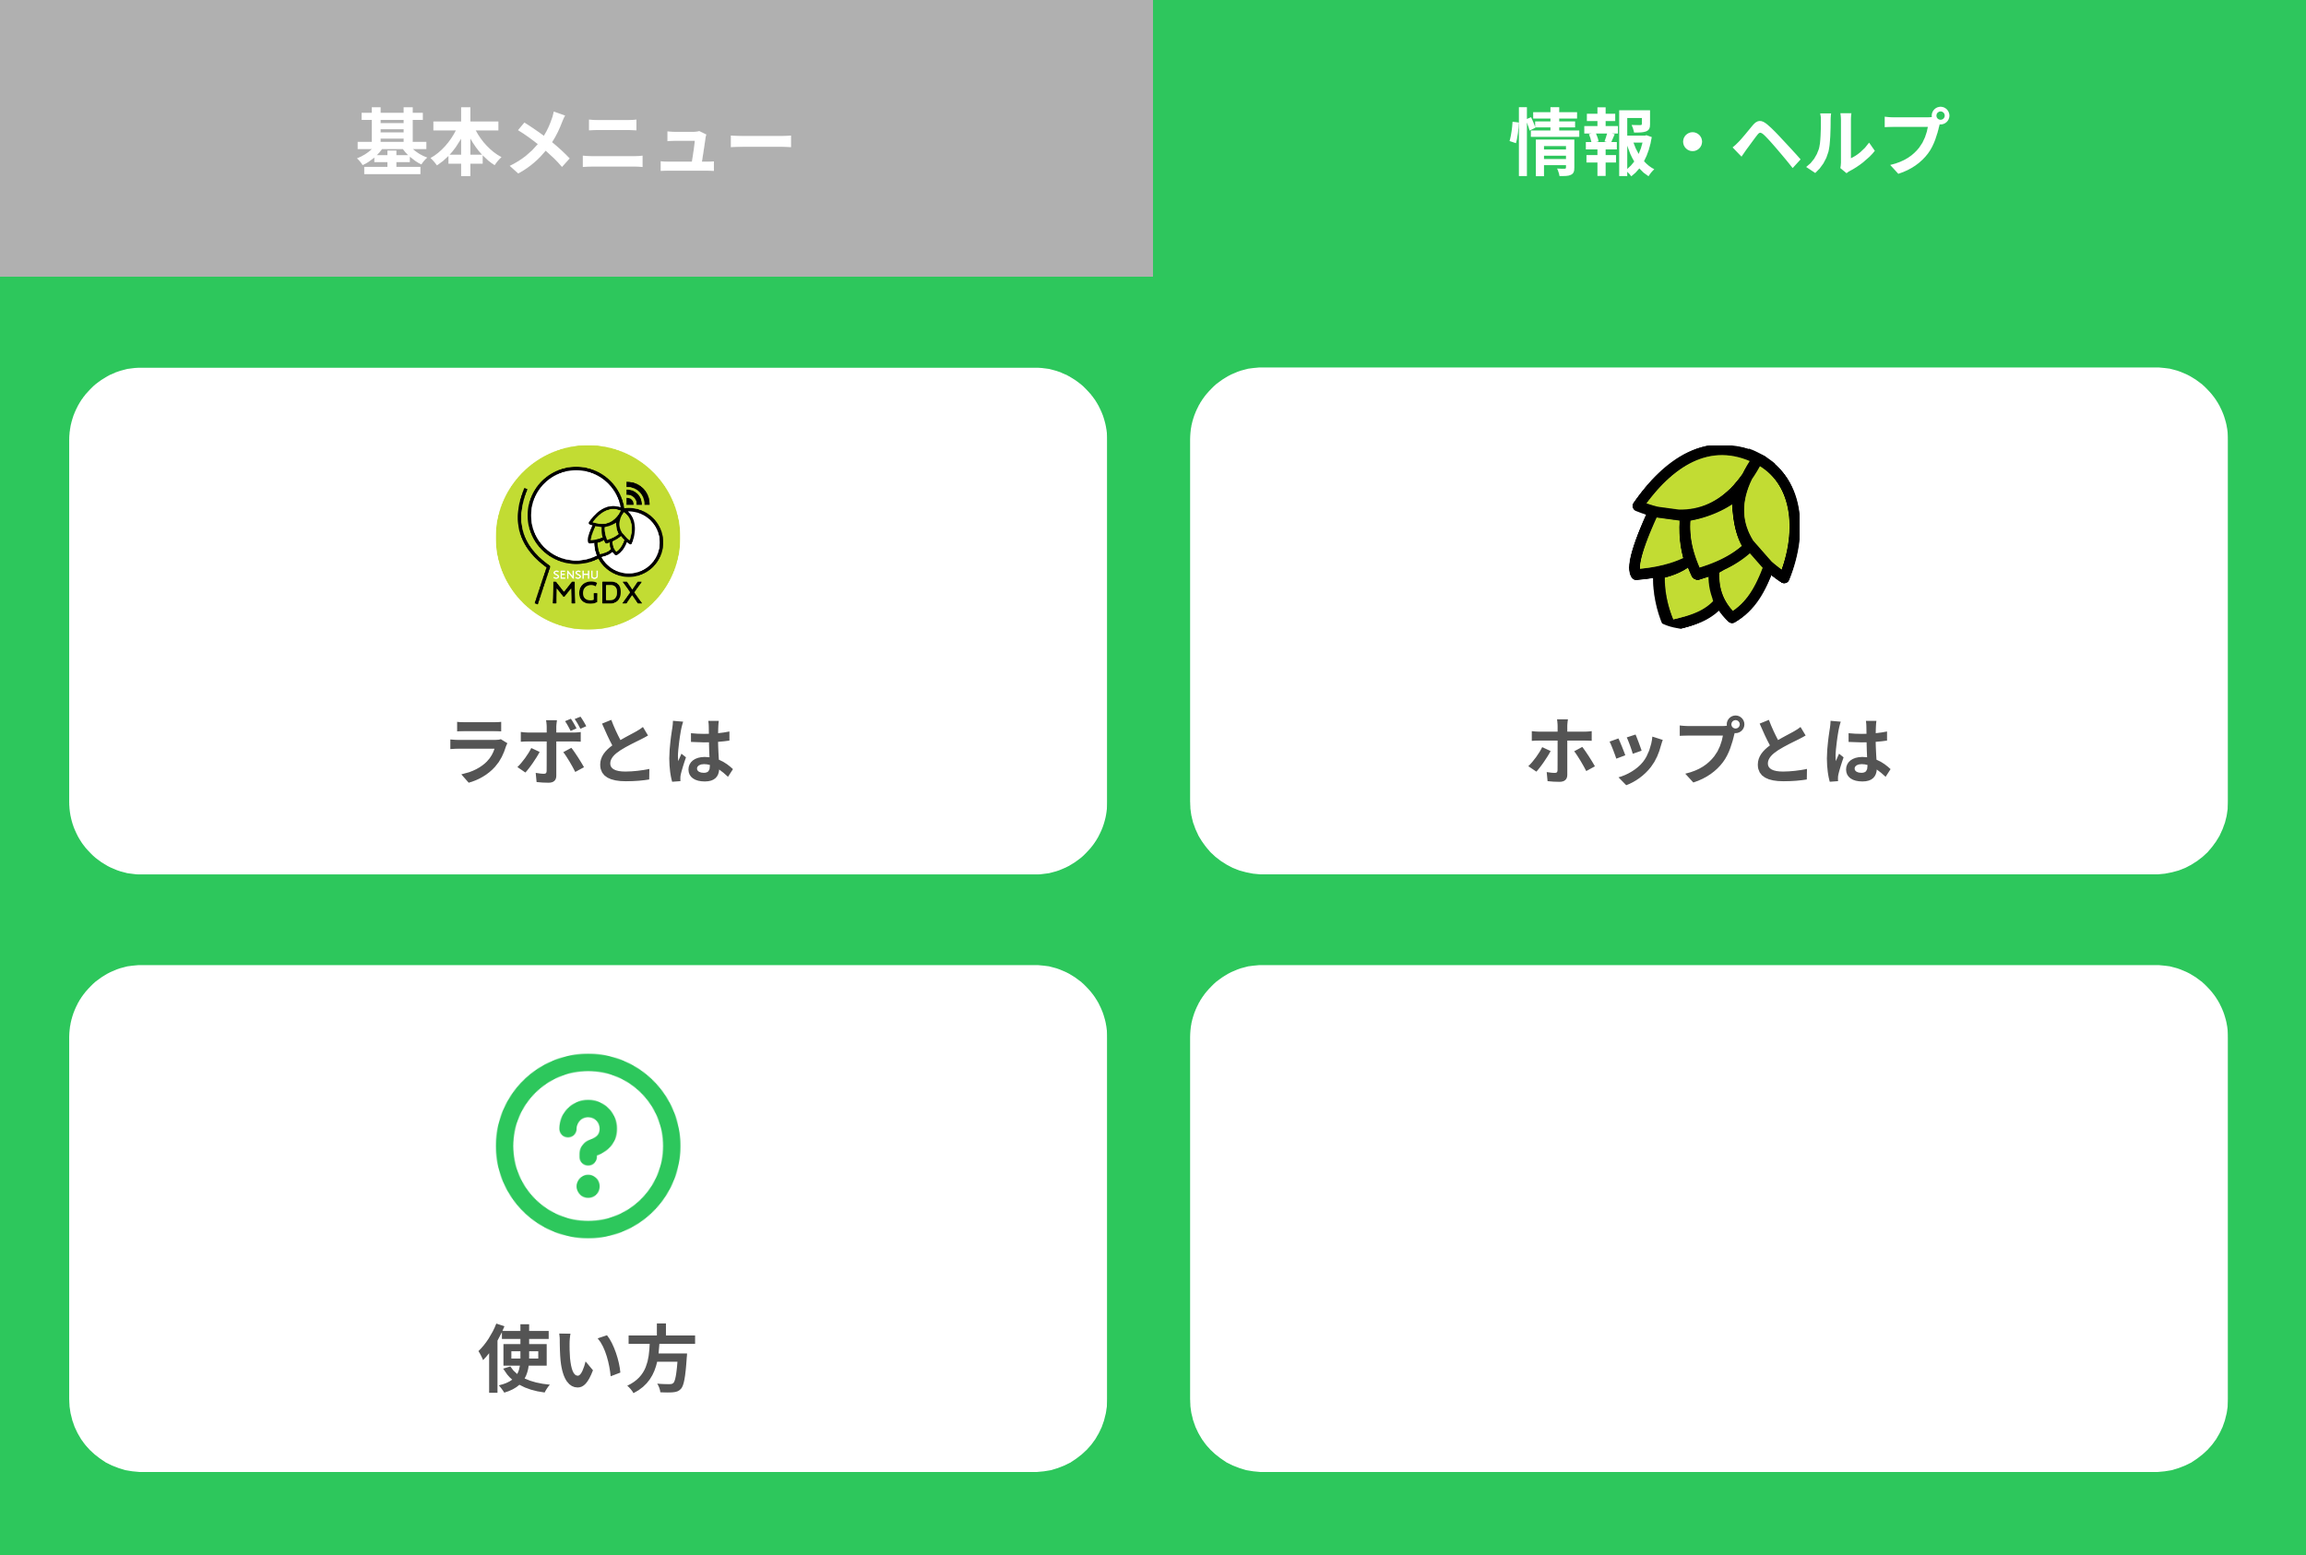
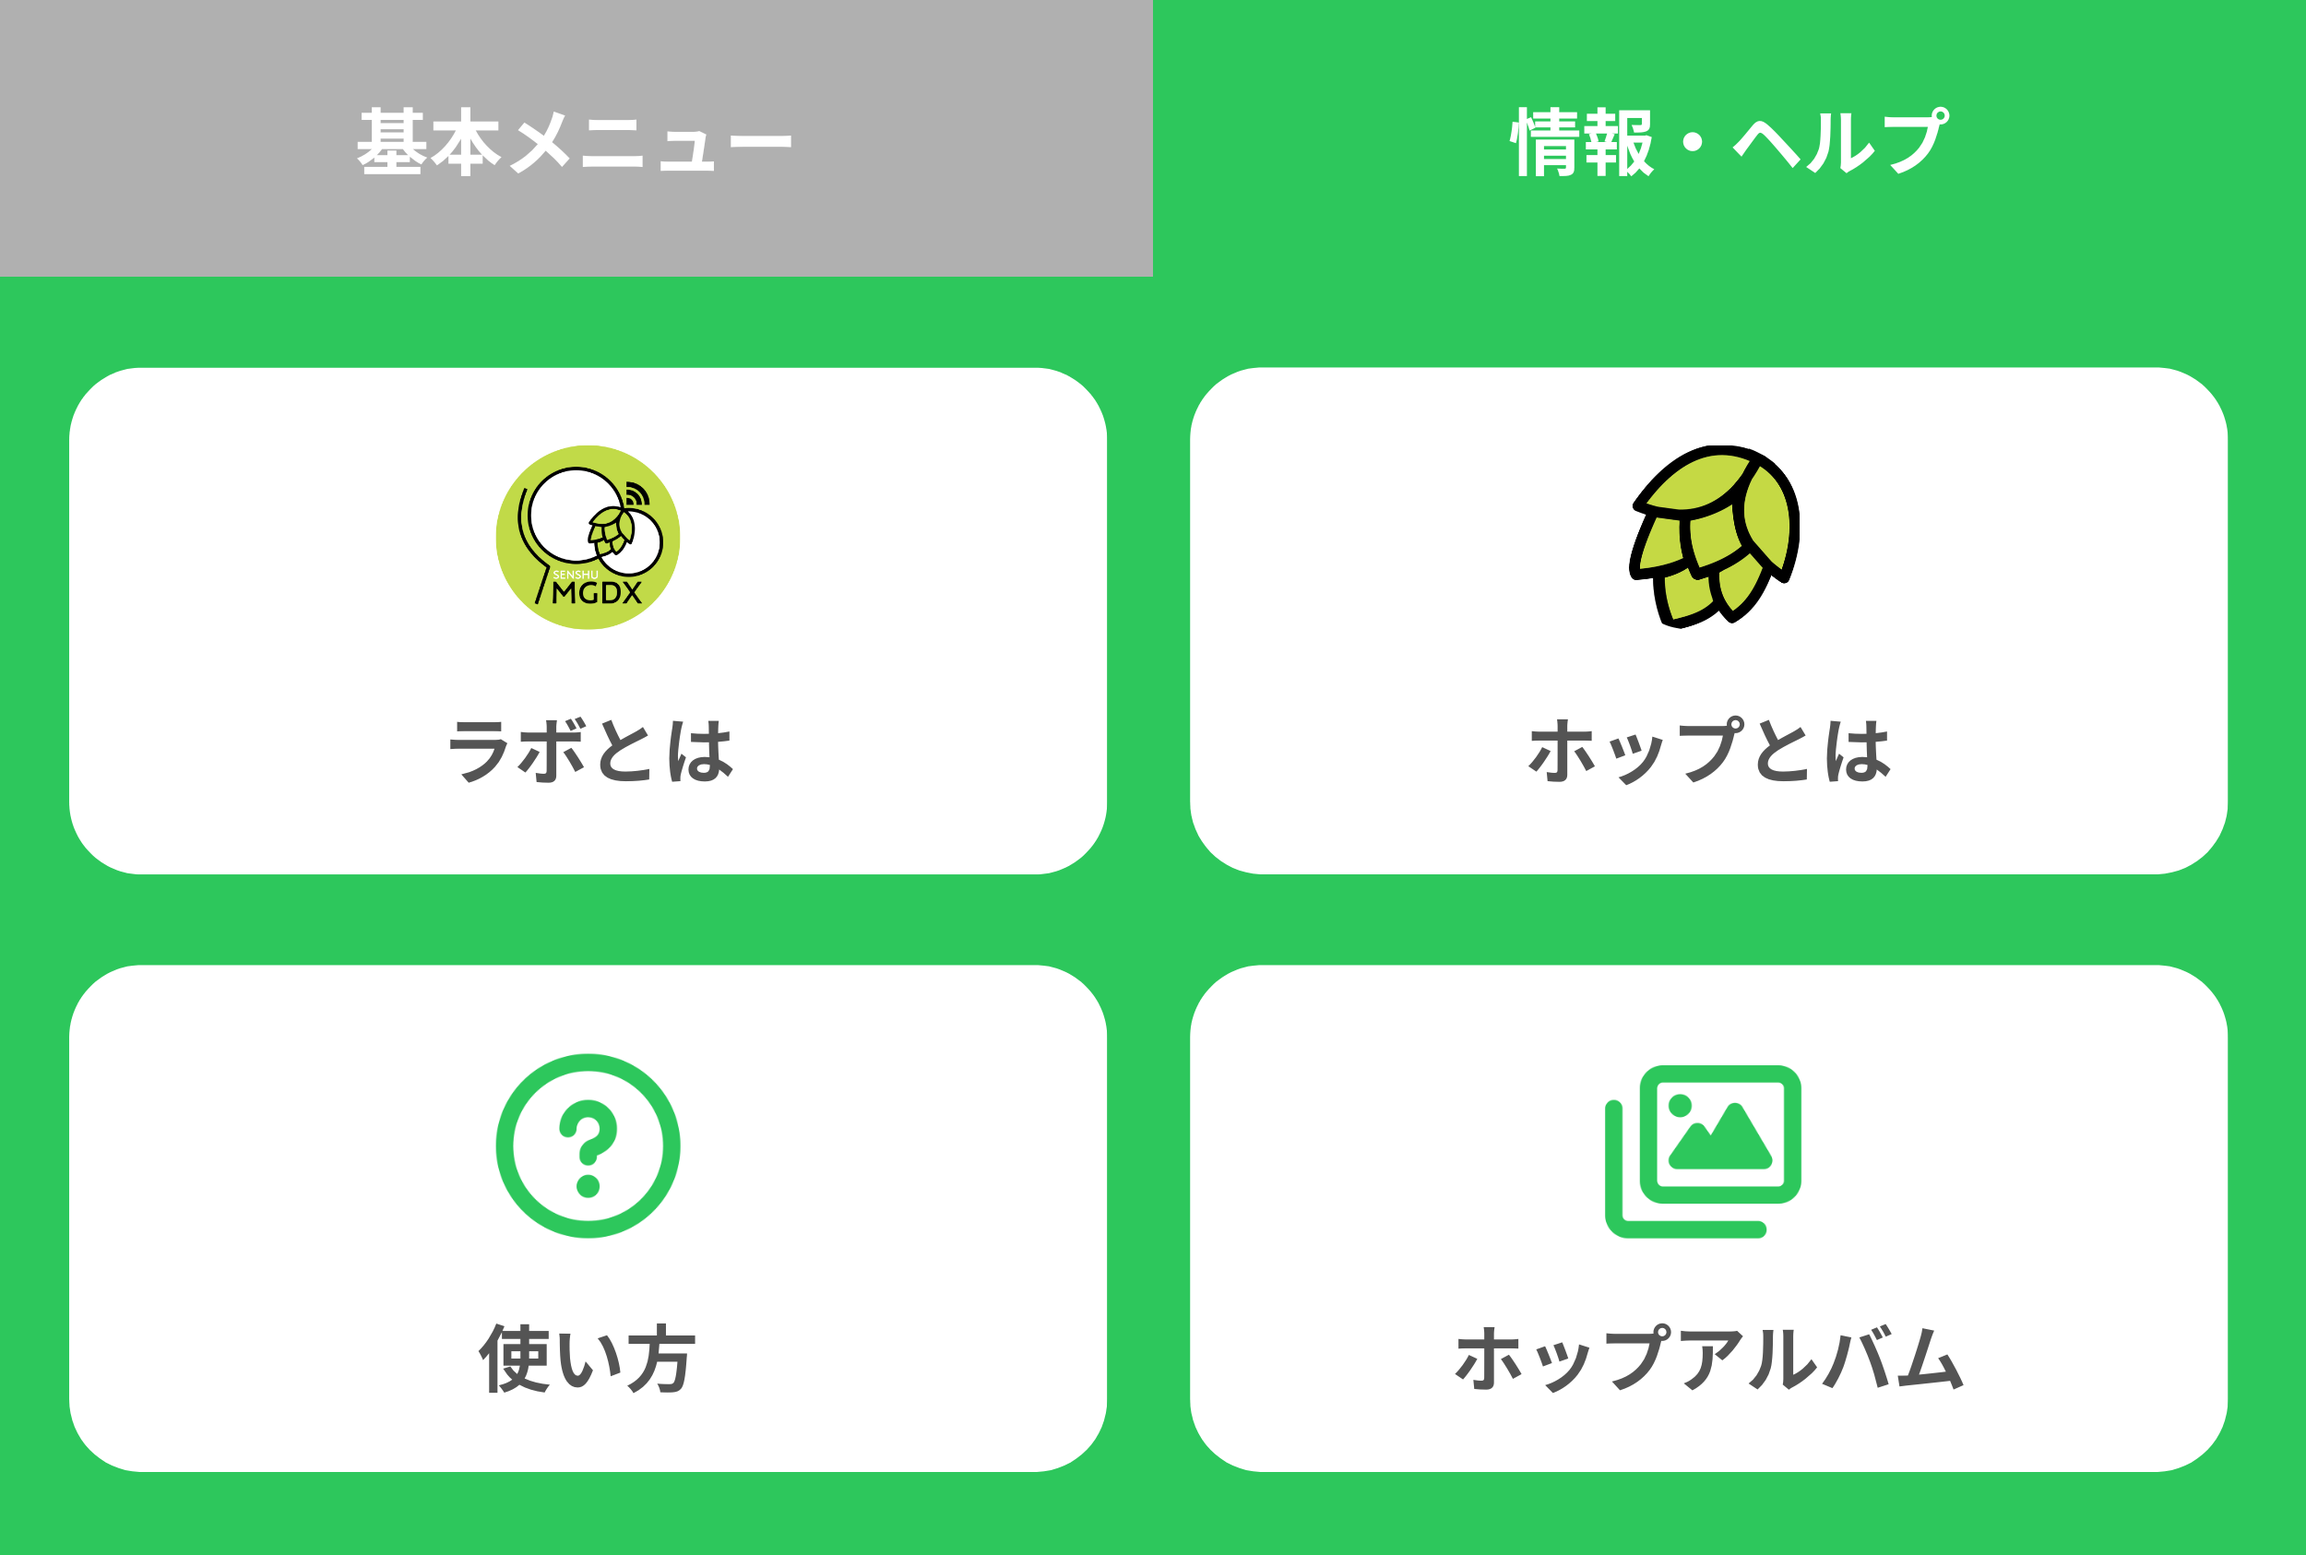
リッチメニュー改修 (#44)
リッチメニューを改修しました。

Changed region(s): [[0.6864, 0.6785, 0.78, 0.8019], [0.624, 0.8327, 0.8736, 0.8944]]

diff --git a/frontend/setup-richmenu.js b/frontend/setup-richmenu.js
@@ -21,8 +21,8 @@ const menuA = {
     // 各メニューボタン（仮）
     { bounds: { x: 0, y: 300, width: 1250, height: 693 }, action: { type: "uri", uri: "https://liff.line.me/2009576548-euJBjiN1/scan" } }, // 左上
     { bounds: { x: 1250, y: 300, width: 1250, height: 693 }, action: { type: "uri", uri: "https://liff.line.me/2009576548-euJBjiN1" } }, // 右上
-    { bounds: { x: 0, y: 993, width: 1250, height: 693 }, action: { type: "message", text: "準備中" } }, // 左下
-    { bounds: { x: 1250, y: 993, width: 1250, height: 693 }, action: { type: "message", text: "準備中" } } // 右下
+    { bounds: { x: 0, y: 993, width: 1250, height: 693 }, action: { type: "uri", uri: "https://liff.line.me/2009576548-euJBjiN1/ranking" } }, // 左下
+    { bounds: { x: 1250, y: 993, width: 1250, height: 693 }, action: { type: "uri", uri: "https://liff.line.me/2009576548-euJBjiN1/mypage" } } // 右下
   ]
 };
 
@@ -36,10 +36,10 @@ const menuB = {
     // 左タブ（基本メニュー）領域：タップで menu-a に切り替え
     { bounds: { x: 0, y: 0, width: 1250, height: 300 }, action: { type: "richmenuswitch", richMenuAliasId: "menu-a", data: "to-a" } },
     // 各メニューボタン（仮）
-    { bounds: { x: 0, y: 300, width: 1250, height: 693 }, action: { type: "message", text: "準備中" } }, // 左上
-    { bounds: { x: 1250, y: 300, width: 1250, height: 693 }, action: { type: "message", text: "準備中" } }, // 右上
-    { bounds: { x: 0, y: 993, width: 1250, height: 693 }, action: { type: "message", text: "準備中" } }, // 左下
-    { bounds: { x: 1250, y: 993, width: 1250, height: 693 }, action: { type: "message", text: "準備中" } } // 右下
+    { bounds: { x: 0, y: 300, width: 1250, height: 693 }, action: { type: "message", text: "準備中です！" } }, // 左上
+    { bounds: { x: 1250, y: 300, width: 1250, height: 693 }, action: { type: "message", text: "準備中です！" } }, // 右上
+    { bounds: { x: 0, y: 993, width: 1250, height: 693 }, action: { type: "message", text: "準備中です！" } }, // 左下
+    { bounds: { x: 1250, y: 993, width: 1250, height: 693 }, action: { type: "message", text: "準備中です！" } } // 右下
   ]
 };
 

diff --git a/frontend/src/pages/MapPage.tsx b/frontend/src/pages/MapPage.tsx
@@ -225,7 +225,7 @@ function MapPage() {
             onClick={() => navigate("/scan")}
           >
             <QrCode size={20} />
-            QR読込で水やり記録
+            QRスキャンで水やり記録
           </button>
         </div>
       </div>
